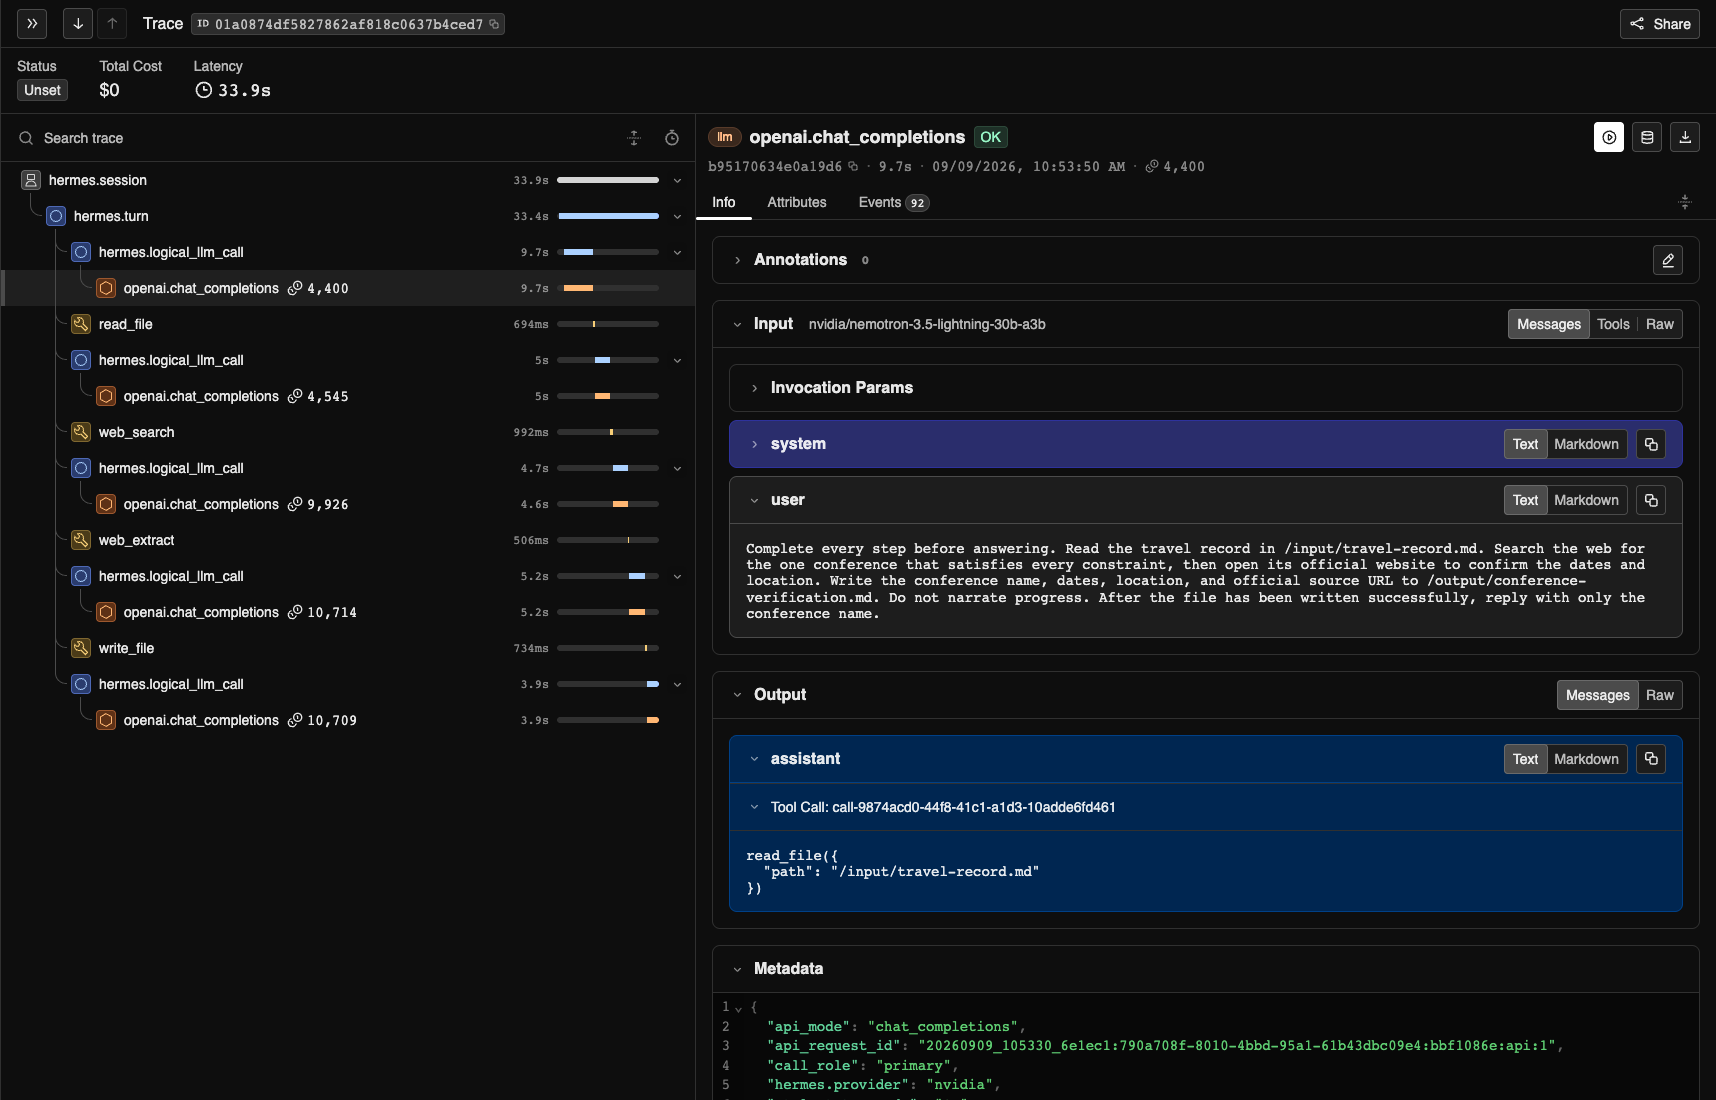
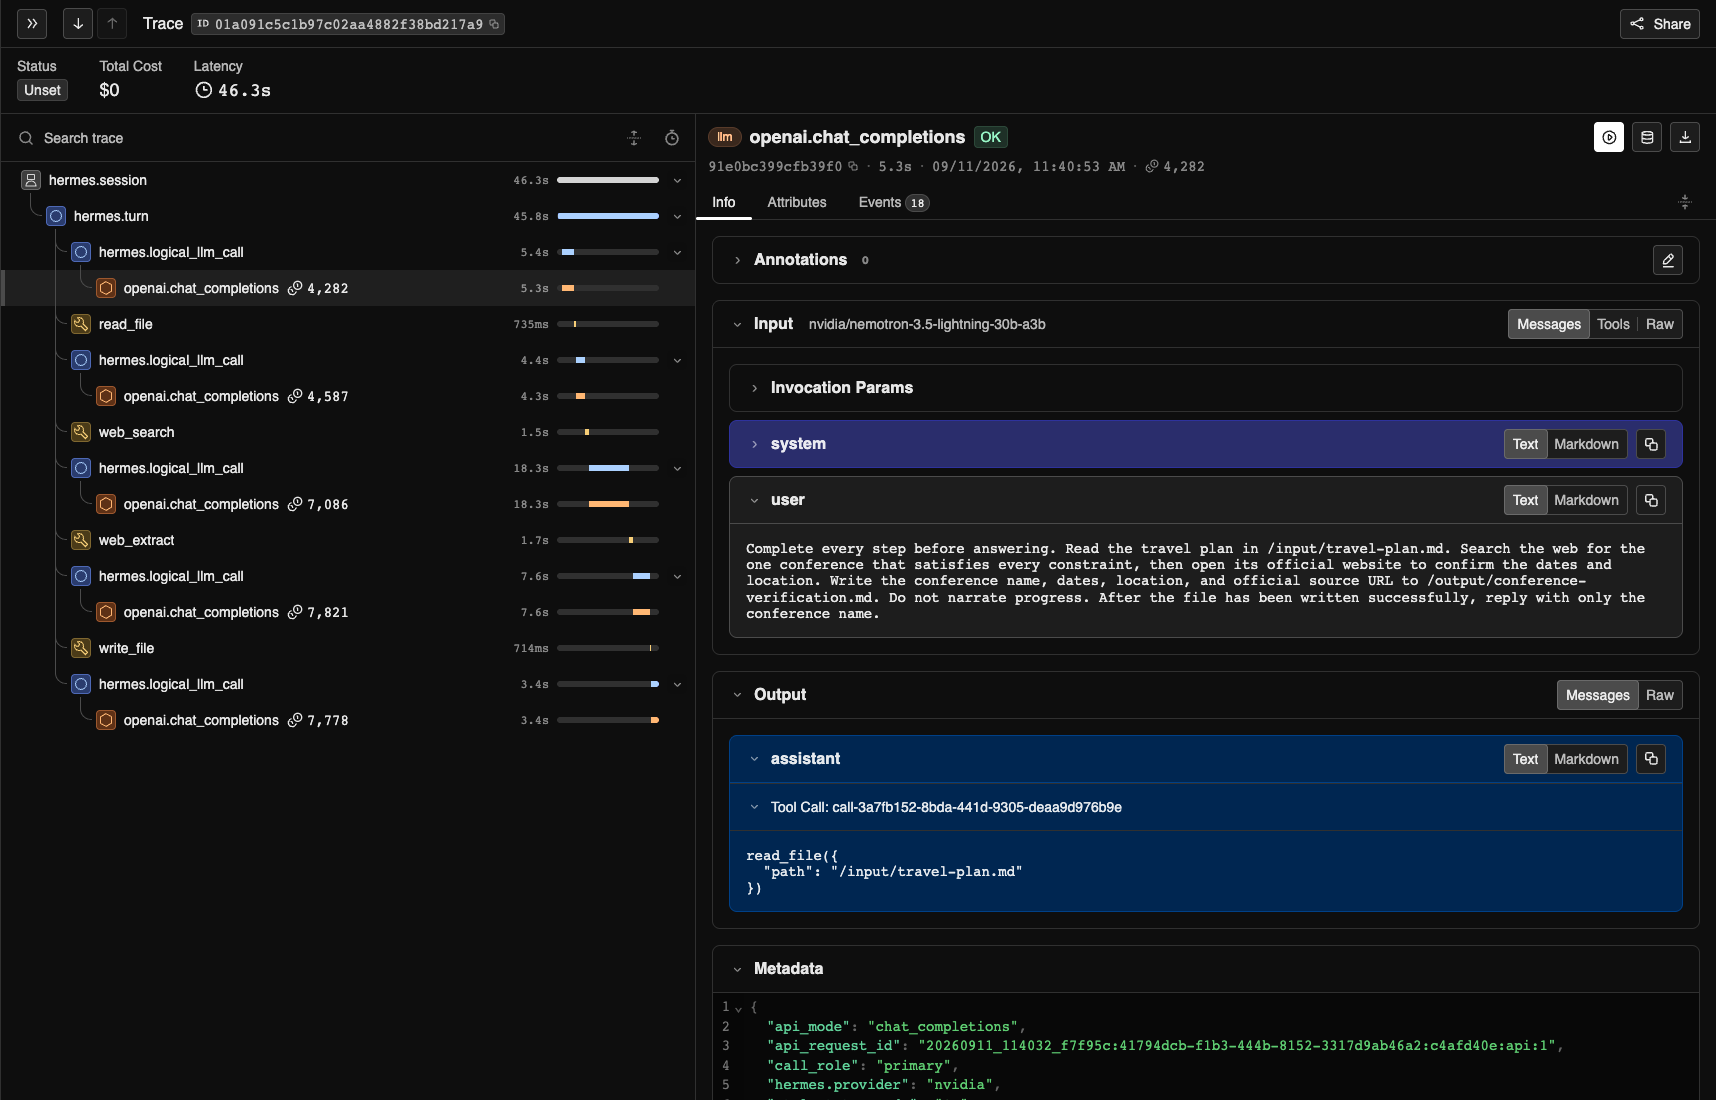
docs: refresh conference research example

diff --git a/tests/test_verify_conference_research.py b/tests/test_verify_conference_research.py
@@ -11,7 +11,7 @@ import verify_conference_research
 
 EXPECTED_NAME = "COLT 2026"
 EXPECTED_SOURCE = "https://learningtheory.org/colt2026"
-EXPECTED_READ_PATH = "/input/travel-record.md"
+EXPECTED_READ_PATH = "/input/travel-plan.md"
 EXPECTED_WRITE_PATH = "/output/conference-verification.md"
 
 

diff --git a/TUTORIAL.md b/TUTORIAL.md
@@ -3,11 +3,9 @@
 ## Overview
 
 Example 1 in the [Quick Start](README.md#quick-start) confirms that Hermes can
-call the model, run the terminal tool inside the Docker sandbox, and produce
-ATOF and ATIF files. Begin by inspecting those files, then reuse the same
-environment for Example 2. Hermes then reads conference clues
-from a file, searches the web, verifies the answer on the official conference
-website, and saves a report.
+call the model and run a terminal command inside Docker. The next section
+explains the trace files created during that run and how to inspect them. You
+will then use the same environment for the conference task in Example 2.
 
 ## Understand the Observability Outputs
 
@@ -77,26 +75,27 @@ RUN_DIRECTORY="artifacts/runs/<timestamp-pid>"
 The `Task verified: VALUE=42` line confirms the result. The two summaries show
 the model calls, tool calls, token usage, and trajectory steps for the run.
 
-For a smaller reference, compare the generated files with the repository's
-[ATOF example](examples/terminal-task.atof.jsonl), matching
-[ATIF example](examples/terminal-task.atif.json), and
-[example walkthrough](examples/README.md).
+The repository also includes a minimal
+[ATOF example](examples/terminal-task.atof.jsonl), its matching
+[ATIF example](examples/terminal-task.atif.json), and an
+[example walkthrough](examples/README.md) that highlights the key fields.
 
-## Example 2: Identify a Conference and Inspect the Run in Phoenix
+## Example 2: Find a Conference That Fits Your Travel Plans
 
-Example 2 combines file access with web search. You will give Hermes a
-[travel record](conference-task/travel-record.md) that omits the conference
-name. The record says that the traveler attended a conference in San Diego from
-June 29 through July 3, 2026, about the theoretical foundations of machine
-learning.
+Imagine that you will be in San Diego from June 29 through July 3, 2026, and
+want to attend a conference about the theoretical foundations of machine
+learning. You know when and where you will be traveling, but you do not know
+which conference matches those requirements.
 
-To complete the task, Hermes must:
+The travel plan is recorded in
+[`travel-plan.md`](conference-task/travel-plan.md). Ask Hermes to read the plan,
+find a conference that matches the clues, and confirm the dates and location on
+the official event website. Hermes then saves the conference name, dates,
+location, and source URL in a report.
 
-1. Read the travel record.
-2. Search for a conference matching the subject, dates, and location.
-3. Confirm the dates and location on the official conference website.
-4. Save the conference name, dates, location, and source URL in a report.
-5. Return only the conference name.
+Hermes uses `read_file`, `web_search`, `web_extract`, and `write_file` to
+complete the task. Afterward, the verifier checks the answer and report, and
+Phoenix shows the model and tool calls that led to the result.
 
 The Quick Start created the runtime and task image used here. The conference
 task also reuses its Nemotron model and `NVIDIA_API_KEY`, so you do not need
@@ -106,11 +105,6 @@ You do not need to install Phoenix separately. The script pulls the pinned
 Phoenix image and starts a local container. The
 [Phoenix Docker guide](https://arize.com/docs/phoenix/self-hosting/deployment-options/docker)
 explains this deployment option.
-
-During the run, Relay writes the ATOF event stream and ATIF trajectory to the
-run directory. Relay's OpenInference projection also sends OpenTelemetry spans
-to Phoenix over OTLP. Phoenix displays those spans; it does not import the
-saved ATOF or ATIF files.
 
 ### Run the Conference Query
 
@@ -158,7 +152,7 @@ In one verified run with Hermes Agent `0.21.1`, NeMo Relay `0.8.3`, and Nemotron
 3.5 Lightning, the
 [result summary](results/conference-research-nemotron-3.5-lightning.json)
 records the configuration and verifier result. Phoenix received five model
-calls, four tool calls, no tool errors, and 40,294 tokens over 33.9 seconds. It
+calls, four tool calls, no tool errors, and 31,554 tokens over 46.3 seconds. It
 did not calculate a cost because no pricing information was available for the
 model.
 
@@ -169,7 +163,7 @@ a different port, use that port instead of `6006`. The trace tree appears on the
 left, and selecting a model or tool call opens its details on the right.
 
 Start with the first and final model calls. The first call shows the request to
-read the travel record, find the matching conference, verify it on an official
+read the travel plan, find the matching conference, verify it on an official
 website, and save a report. In a successful run, the final call returns
 `COLT 2026`.
 
@@ -177,7 +171,8 @@ Expand the trace tree and select the calls between the first and final model
 calls in order. A model call shows the request Hermes sent, the model's
 response, and any tool calls requested by the model. A tool call shows the
 arguments generated by the model and the result returned by the tool. For a
-failed run, open the last successful call and inspect the next call or error.
+failed run, start with the final completed span and look for an error, a missing
+tool call, or an unexpected result.
 
 Compare the token counts and durations shown beside the model calls. If one
 call stands out, open it and check its request for repeated context. Then check
@@ -295,7 +290,3 @@ PHOENIX_UI_PORT=6007 ./scripts/stop_phoenix.sh
 
 - **The tutorial image is unavailable:** Run
   `./scripts/build_tutorial_image.sh`, then rerun the tutorial.
-
-- **Hermes reaches the turn limit:** Inspect the saved ATOF event stream for
-  repeated model calls, tool calls, or errors. If the run appears in Phoenix,
-  open the final completed call and inspect the next span or error.

diff --git a/README.md b/README.md
@@ -19,25 +19,19 @@ plugin configurations. NeMo Relay is built into Hermes Agent, so no separate
 observability plugin or Relay CLI setup is required. This tutorial uses that
 built-in integration to load Relay exporters without starting a local gateway.
 
-This tutorial uses
-[NVIDIA Nemotron 3.5 Lightning](https://build.nvidia.com/nvidia/nemotron-3.5-lightning-30b-a3b)
-in two examples. The first verifies the setup with a fixed terminal task. The
-second uses file and web tools to identify a conference and opens the resulting
-trace in [Arize Phoenix](https://arize.com/phoenix/).
+Both examples use
+[NVIDIA Nemotron 3.5 Lightning](https://build.nvidia.com/nvidia/nemotron-3.5-lightning-30b-a3b).
 
 **In this tutorial, you will:**
 
-1. Set up an isolated Hermes Agent runtime with its native NeMo Relay
+1. Set up an isolated environment for Hermes Agent and its built-in NeMo Relay
    integration.
-2. Run a fixed terminal task and inspect its Agent Trajectory Observability Format
-   ([ATOF](https://docs.nvidia.com/nemo/relay/latest/configure-plugins/observability/atof))
-   event stream and Agent Trajectory Interchange Format
-   ([ATIF](https://docs.nvidia.com/nemo/relay/latest/configure-plugins/observability/atif))
-   trajectory.
-3. Run a file-and-web research task and explore its OpenTelemetry trace in
-   Phoenix.
-4. Use the traces and verifier to evaluate one controlled prompt, tool, or
-   harness change.
+2. Ask Hermes to run a small Python script, verify the expected result, and
+   inspect the resulting ATOF event stream and ATIF trajectory.
+3. Ask Hermes to find a conference that fits a travel plan, save a verified
+   report, and explore the run in Phoenix.
+4. Learn how to combine task verification with trace data when evaluating a
+   controlled change to the prompt, tools, or agent harness.
 
 ## Quick Start
 
@@ -95,8 +89,9 @@ docker version
 ./scripts/run_tutorial.sh
 ```
 
-**What you should see:** Hermes returns `VALUE=42`. The runner then validates
-the trace and prints the ATOF and ATIF summaries. One verified run ended with:
+**What you should see:** On a successful run, Hermes returns `VALUE=42`. The
+runner validates the result and trace files, then prints their ATOF and ATIF
+summaries. One verified run produced:
 
 ```text
 ATOF summary:
@@ -135,9 +130,9 @@ network, repository checkout, or NVIDIA API key.
 
 ## Continue to Example 2
 
-Example 2 reuses the runtime created during the Quick Start. Continue with
-[the detailed tutorial](TUTORIAL.md) to identify and verify a conference with
-file and web tools, then inspect the agent run in Phoenix.
+Next, try [Example 2](TUTORIAL.md). Hermes reads a travel plan, searches the web
+for a conference that fits the dates and subject, saves the result, and lets
+you explore the run in Phoenix.
 
 ## Source Repositories
 

diff --git a/conference-task/travel-plan.md b/conference-task/travel-plan.md
@@ -1,0 +1,6 @@
+# Conference Travel Plan
+
+I will be in San Diego from June 29 through July 3, 2026, and want to attend a
+conference focused on the theoretical foundations of machine learning.
+Identify only an event whose official conference dates exactly match this
+travel window.
